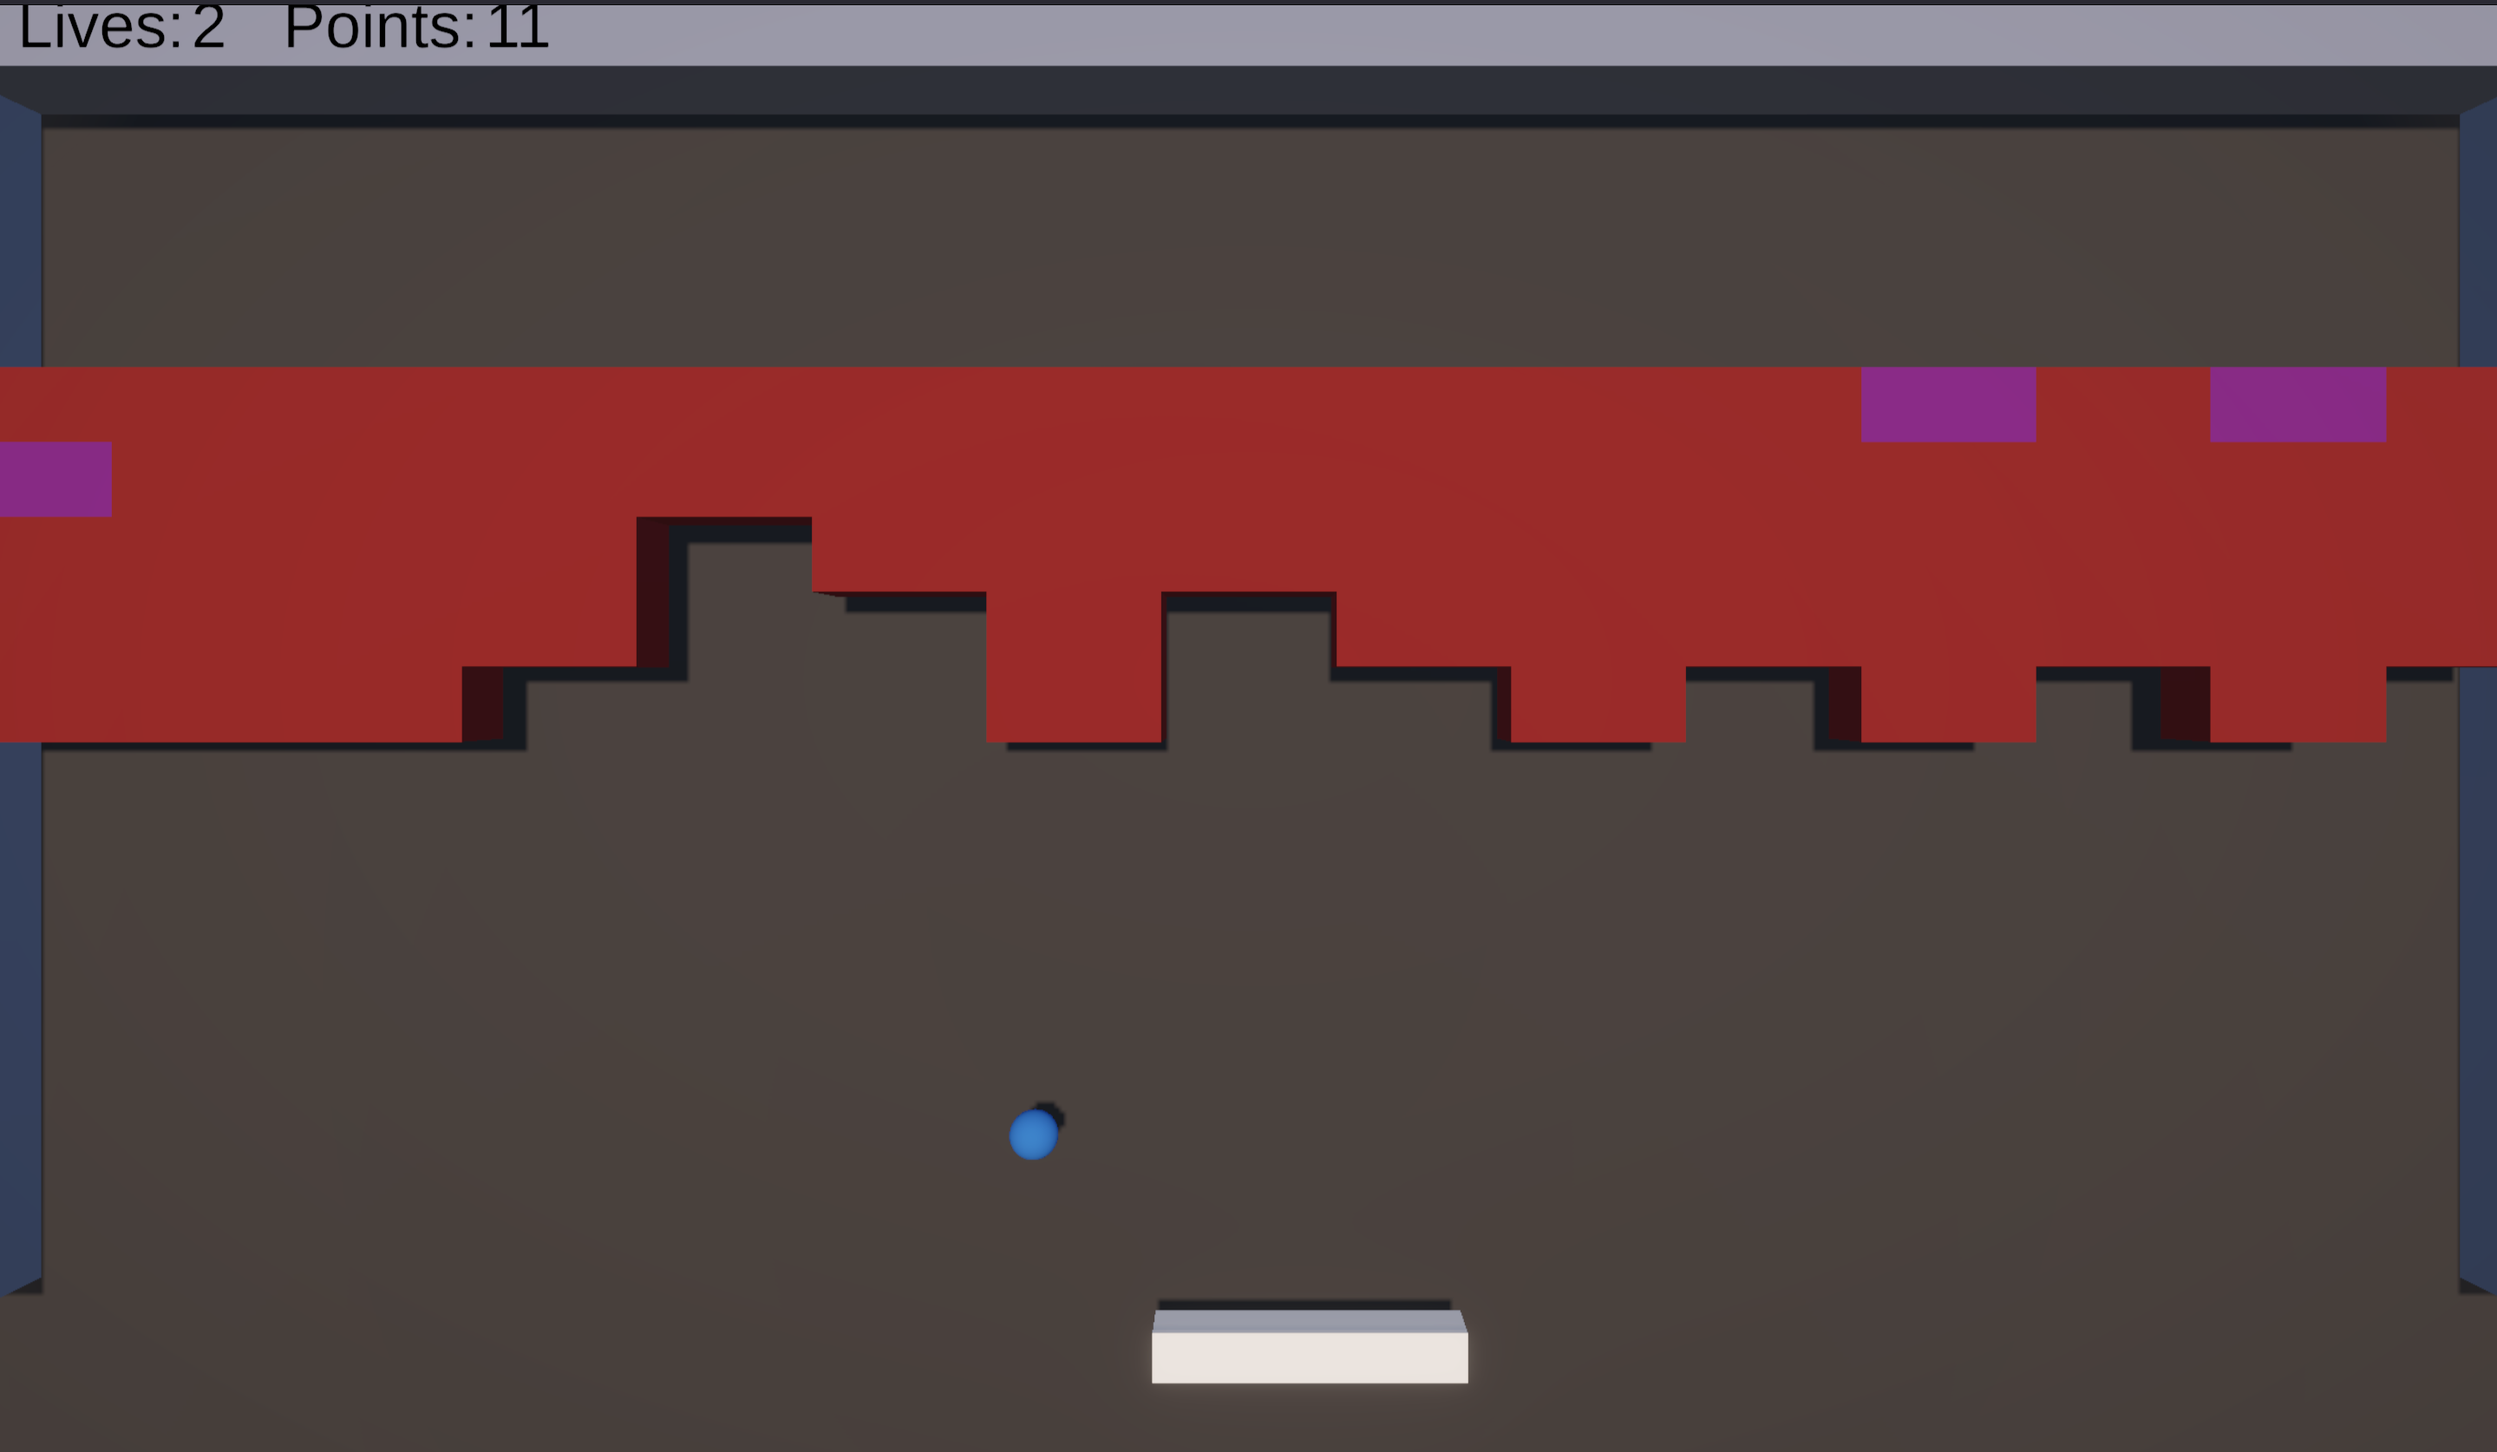
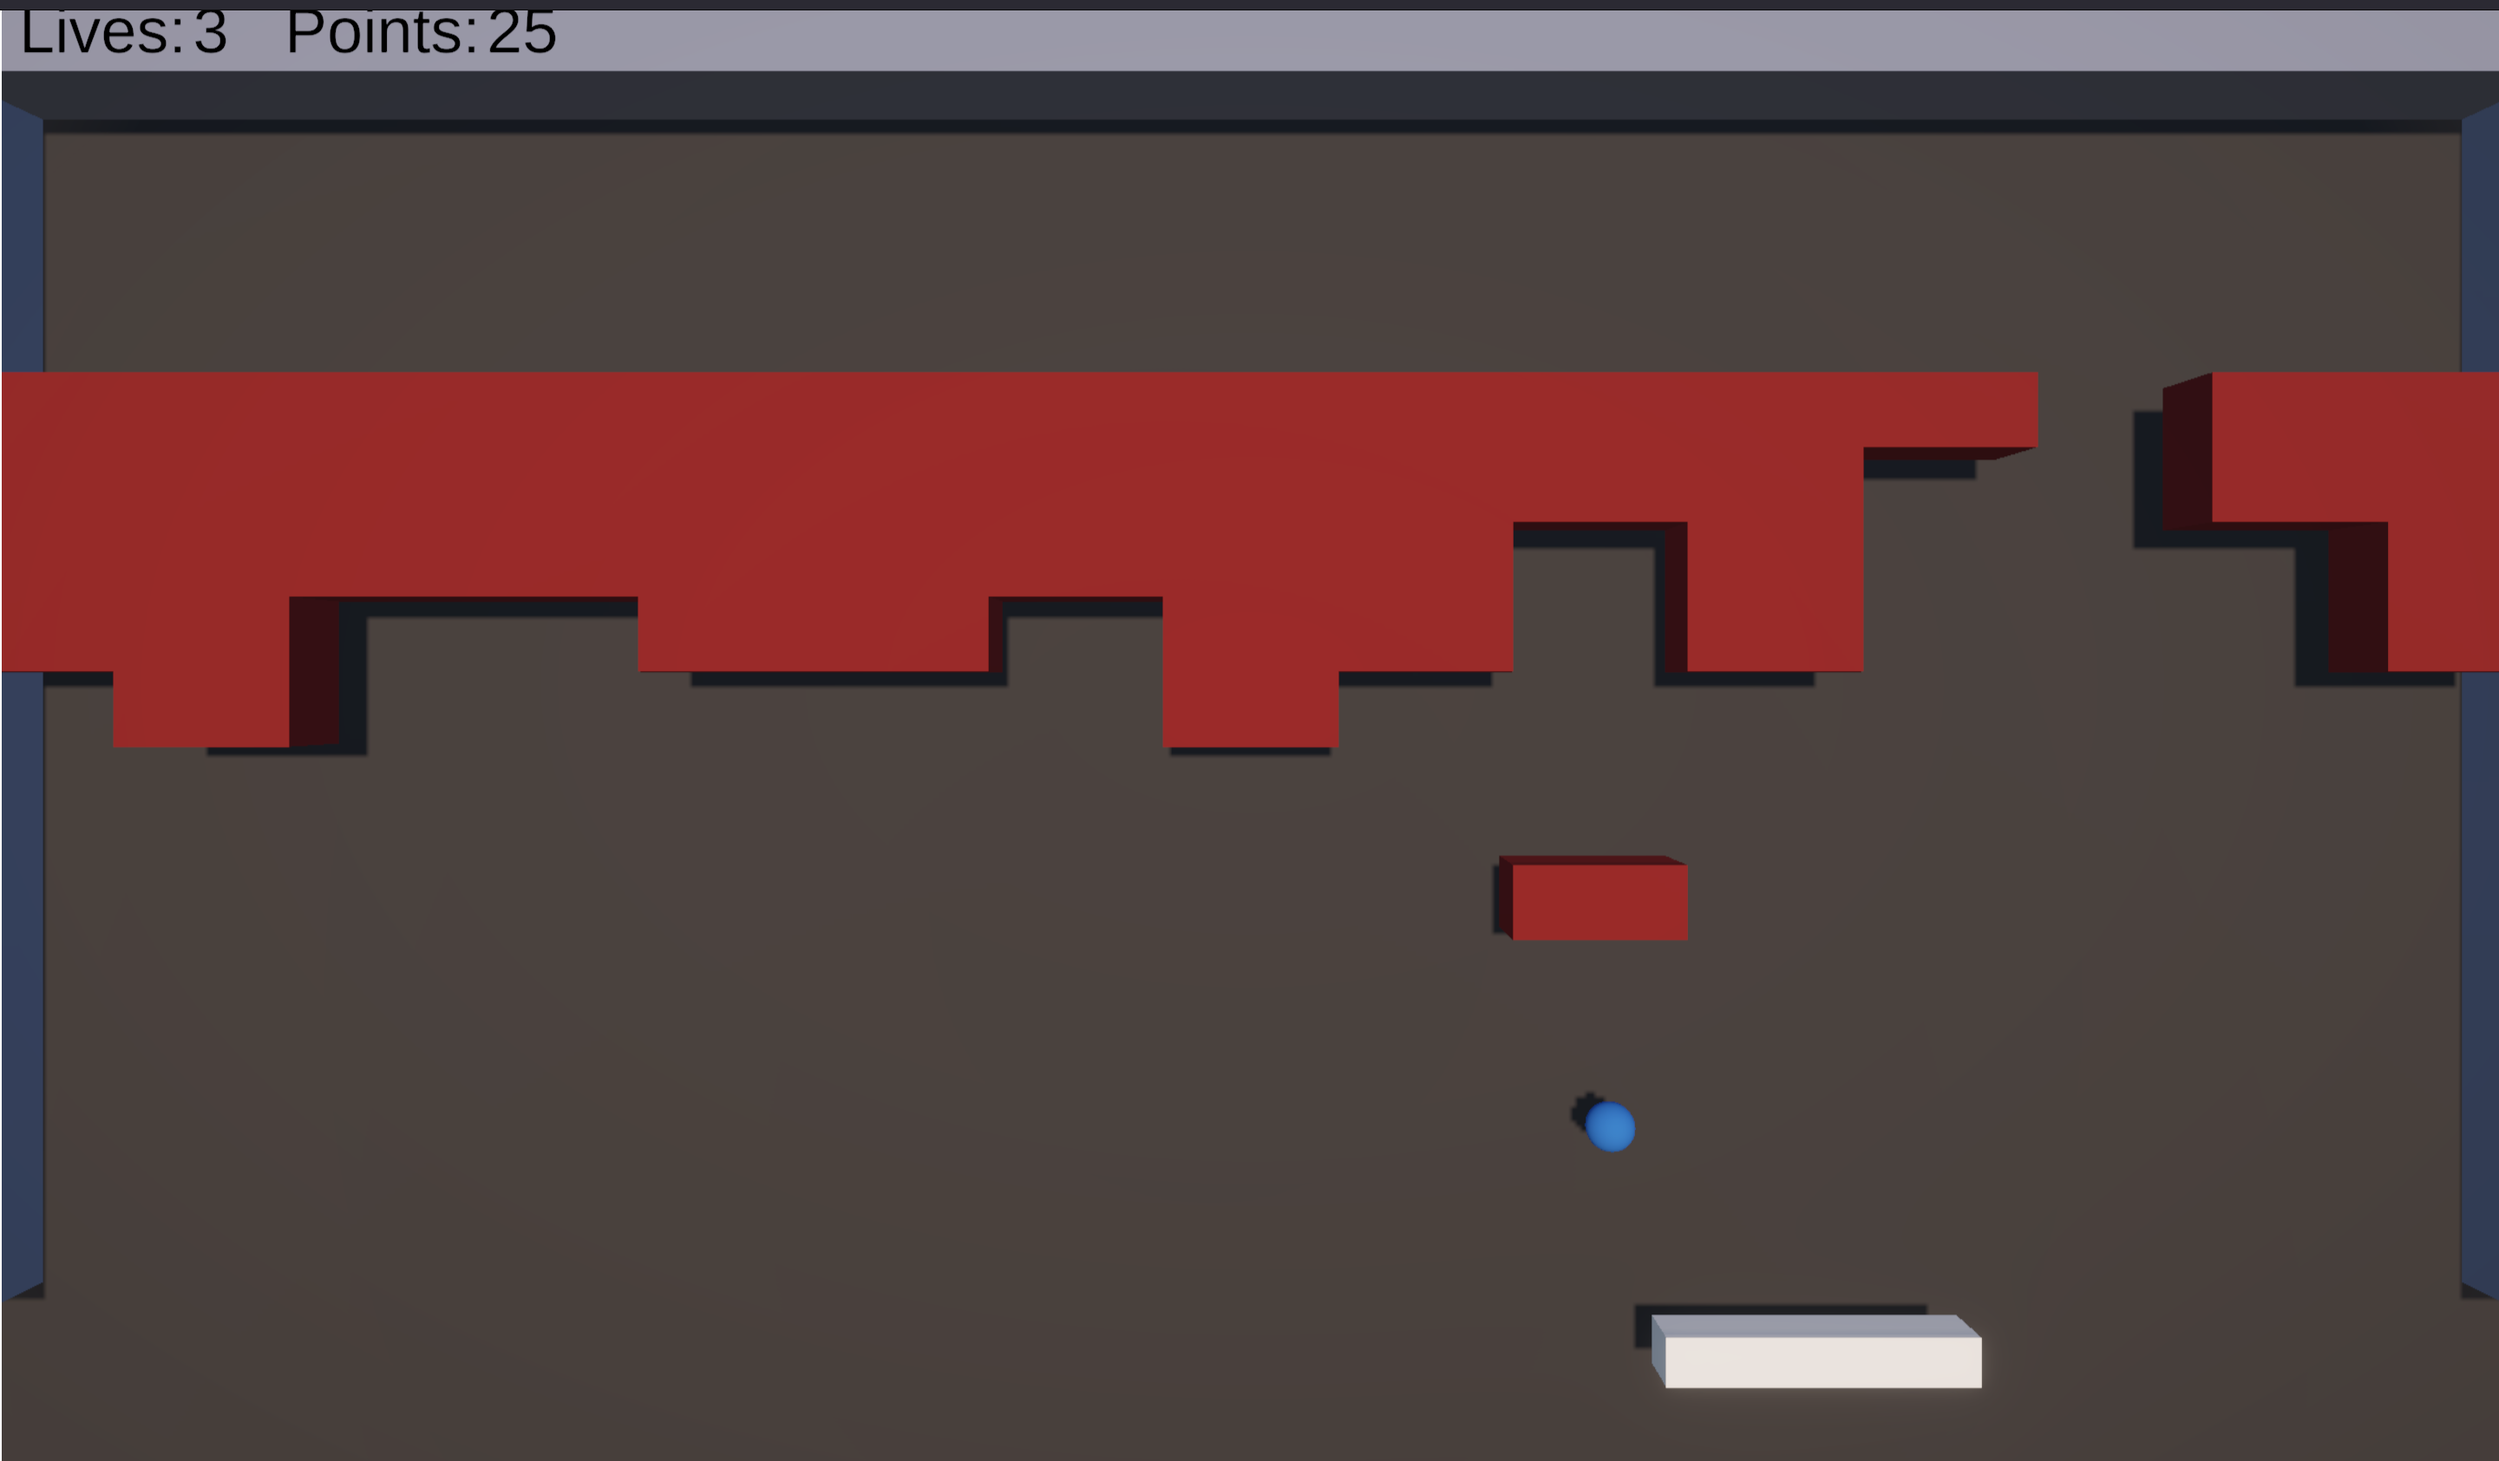
3

diff --git a/prototypes/breakout/README.md b/prototypes/breakout/README.md
@@ -11,11 +11,21 @@ From my playtesters I learned mostly about a lot of small issues. The way the pa
 <img src="./images/breakout-1-image.png" alt="Breakout gameplay" align="right" width="350">
 
 ## Breakout-2
-The goal of version 2 was to fix the errors that had been previously identified, as well as something that could (generously) be called levels. I am relatively sure that in the course of making this version I acccidentally saved over version 1, making the two nigh identical. I added points and a very simple UI to keep track of them and lives. I added the capacity for "levels" in which upon each new level the number of bricks would decrease. I initially, and indeed sank a good few hours into, trying to make several different types of bricks which would gradually increase the speed of the ball as in the original version of breakout. However I ran into issues with the speed increasing too quickly and becoming unplayable, or the ball not moving at all. In retrospect I think I could have resolved these with not much more work than I had already done, but instead I tossed the idea to instead make the decreasing number of bricks up to "level" 5. 
+The goal of version 2 was to fix the errors that had been previously identified, as well as something that could (generously) be called levels. I am relatively sure that in the course of making this version I acccidentally saved over version 1, making the two nigh identical. I added points and a very simple UI to keep track of them and lives, which I increased. I added the capacity for "levels" in which, upon each new level the number of bricks would decrease. I initially, and indeed sank a good few hours into, trying to make several different types of bricks which would gradually increase the speed of the ball as in the original version of breakout. However I ran into issues with the speed increasing too quickly and becoming unplayable, or the ball not moving at all. In retrospect I think I could have resolved these with not much more work than I had already done, but instead I tossed the idea to instead make the decreasing number of bricks up to "level" 5. 
 
 Mostly with this version I learned patience. Its a lesson I've learned many times with coding and I'll learn it many more. I learned that the small details of breakout come together to create a much more fun version of the game than a version without the invisible details. I reviewed how to create and use tags to change the behavior upon collisions. 
 
 This time I seem to have deleted the notes I made about the comments from playtesters. The biggest one, though, was that the ball could get stuck going back and forth with very little or no vertical movement, which was boring at best, and a softlock at worst. I also admitted to myself that my levels were bad, and I needed a gimmick for the game. 
 [Play breakout version 2](https://cc3265a.github.io/game-dev-spring2025/builds/breakout-2/)
 <img src="./images/breakout-2-image.png" alt="Breakout gameplay" align="right" width="350">
+
+## Breakout-3
+This version recieved the biggest change: falling blocks. Now instead of bricks breaking when hit by the ball, they began to fall. If bricks collided with the paddle you would be slowed. The other change was the addition of bricks which made the ball faster, which I had abandoned in version 2. I also fixed the issue of no vertical movement, added a "sprint" function for the paddle, and changed what constituted levels. Version 3 levels would increase the rates of the randomly spawning magenta bricks, which made you faster. This would increase the difficulty of each level as you progressed because the ball would get faster and faster and harder to keep up with. These changes came together to create something that someone could "get good" at, or gain mastery over. It also created a marginal sense of progression.
+
+From this version I learned how to control the different axes of a velocity vertex and how to directly alter them. I also learned how to utilize the random function in such a way to determine block spawning, and how to better have my different scripts "communicate" with each other. 
+
+My playtesters had valuable feedback. The playing field was too wide, which meant longer times of waiting for the ball to reach the bricks or paddle. It also meant that there were more bricks which slowed down the gameplay and any sense of progression. They also told me that the paddle needed in indicator for when you were slowed, because without it it could feel like you lost control for no reason, which pulls the player out of the game. Addditionally, my playtesters gave me several ideas, upon my request, for what additional features my game could include. These ideas were new brick variants which would either spawn more balls or create one large wrecking ball.
+
+[Play breakout version 3](https://cc3265a.github.io/game-dev-spring2025/builds/breakout-3/)
+<img src="./images/breakout-3-image.png" alt="Breakout gameplay" align="right" width="350">
 
